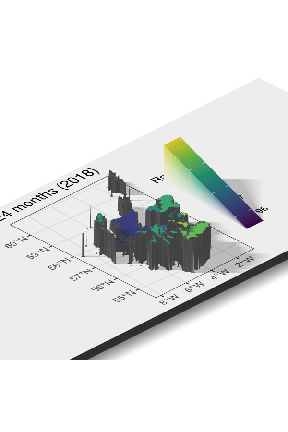
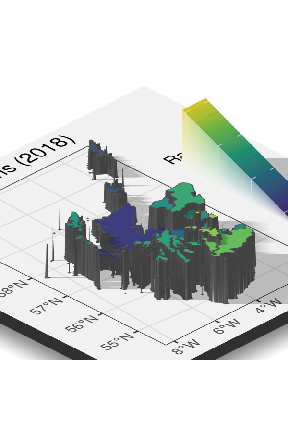
Built site for scotmaps: 0.0.0.1@6080cff

diff --git a/articles/scotmaps.html b/articles/scotmaps.html
@@ -102,7 +102,6 @@
 <p>Either use <code><a href="../reference/get_layer.html">get_layer("name of your layer")</a></code> or <code>name_of_layer()</code>. For example you can down the marine areas using either of these functions:</p>
 <div class="sourceCode" id="cb2"><pre class="downlit sourceCode r">
 <code class="sourceCode R"><span class="va">ma</span> <span class="op">&lt;-</span> <span class="fu"><a href="../reference/get_layer.html">get_layer</a></span><span class="op">(</span><span class="st">"marine_areas"</span><span class="op">)</span>
-<span class="co">#&gt; marine_areas was updated on 2020-11-28</span>
 <span class="co"># or...</span>
 <span class="va">ma</span> <span class="op">&lt;-</span> <span class="fu"><a href="../reference/marine_areas.html">marine_areas</a></span><span class="op">(</span><span class="op">)</span></code></pre></div>
 <p>The first time you run try to access a layer map files, you will be prompted for permission to download that layer to your hard drive.</p>
@@ -125,9 +124,7 @@
   <span class="fu"><a href="https://ggplot2.tidyverse.org/reference/theme.html">theme</a></span><span class="op">(</span>panel.grid.major <span class="op">=</span> <span class="fu"><a href="https://ggplot2.tidyverse.org/reference/element.html">element_line</a></span><span class="op">(</span>colour <span class="op">=</span> <span class="st">"grey60"</span>, size <span class="op">=</span> <span class="fl">0.1</span><span class="op">)</span><span class="op">)</span>
 
 <span class="va">p</span></code></pre></div>
-<div class="figure">
-<img src="figure/unnamed-chunk-3-1.png" alt=""><p class="caption">plot of chunk unnamed-chunk-3</p>
-</div>
+<p><img src="figure/unnamed-chunk-3-1.png"></p>
 <p>The <code>geom_st</code> recognises the simple feature or <code>sf</code> map downloaded layer and plots at a spatial object in the correct map projection.</p>
 </div>
 <div id="map-all-the-stats" class="section level3">
@@ -156,26 +153,19 @@
   <span class="fu"><a href="https://ggplot2.tidyverse.org/reference/ggsf.html">geom_sf</a></span><span class="op">(</span><span class="fu"><a href="https://ggplot2.tidyverse.org/reference/aes.html">aes</a></span><span class="op">(</span>fill <span class="op">=</span> <span class="va">value</span><span class="op">)</span><span class="op">)</span> <span class="op">+</span>
   <span class="fu"><a href="https://ggplot2.tidyverse.org/reference/scale_viridis.html">scale_fill_viridis_c</a></span><span class="op">(</span><span class="st">"Ratio"</span><span class="op">)</span> <span class="op">+</span>
   <span class="fu"><a href="https://ggplot2.tidyverse.org/reference/ggtheme.html">theme_bw</a></span><span class="op">(</span><span class="op">)</span> <span class="op">+</span>
-  <span class="fu"><a href="https://ggplot2.tidyverse.org/reference/labs.html">labs</a></span><span class="op">(</span>title<span class="op">=</span><span class="st">"6-in-1-immunisation by 24 months (2018)"</span><span class="op">)</span> <span class="op">+</span>
-  <span class="fu"><a href="https://ggplot2.tidyverse.org/reference/theme.html">theme</a></span><span class="op">(</span>plot.title <span class="op">=</span> <span class="fu"><a href="https://ggplot2.tidyverse.org/reference/element.html">element_text</a></span><span class="op">(</span>hjust <span class="op">=</span> <span class="fl">1</span><span class="op">)</span><span class="op">)</span>
+  <span class="fu"><a href="https://ggplot2.tidyverse.org/reference/labs.html">labs</a></span><span class="op">(</span>title<span class="op">=</span><span class="st">"6-in-1-immunisation by 24 months (2018)"</span><span class="op">)</span>
 
 <span class="va">p2</span></code></pre></div>
-<div class="figure">
-<img src="figure/unnamed-chunk-4-1.png" alt=""><p class="caption">plot of chunk unnamed-chunk-4</p>
-</div>
+<p><img src="figure/unnamed-chunk-4-1.png"></p>
 <p>Looks good but what about in 3D? Don’t worry, <code>rayshader</code> package has your back.</p>
 <div class="sourceCode" id="cb5"><pre class="downlit sourceCode r">
 <code class="sourceCode R"><span class="co"># devtools::install_github("tylermorganwall/rayshader")</span>
 <span class="kw"><a href="https://rdrr.io/r/base/library.html">library</a></span><span class="op">(</span><span class="va">rayshader</span><span class="op">)</span>
-
-<span class="fu">plot_gg</span><span class="op">(</span><span class="va">p2</span>, width <span class="op">=</span> <span class="fl">6</span>, height<span class="op">=</span><span class="fl">2.7</span><span class="op">)</span>
-                                                                                                     
+<span class="fu">plot_gg</span><span class="op">(</span><span class="va">p2</span>, multicore <span class="op">=</span> <span class="cn">TRUE</span><span class="op">)</span>
 <span class="fu">render_camera</span><span class="op">(</span>zoom <span class="op">=</span> <span class="fl">0.4</span>, theta <span class="op">=</span> <span class="op">-</span><span class="fl">45</span>, phi <span class="op">=</span> <span class="fl">30</span><span class="op">)</span>
 <span class="fu"><a href="https://rdrr.io/r/base/Sys.sleep.html">Sys.sleep</a></span><span class="op">(</span><span class="fl">0.2</span><span class="op">)</span>
 <span class="fu">render_snapshot</span><span class="op">(</span><span class="op">)</span></code></pre></div>
-<div class="figure">
-<img src="figure/unnamed-chunk-5-1.png" alt=""><p class="caption">plot of chunk unnamed-chunk-5</p>
-</div>
+<p><img src="figure/unnamed-chunk-5-1.png"></p>
 <div class="sourceCode" id="cb6"><pre class="downlit sourceCode r">
 <code class="sourceCode R"><span class="fu">rgl</span><span class="fu">::</span><span class="fu">rgl.close</span><span class="op">(</span><span class="op">)</span></code></pre></div>
 </div>
@@ -201,24 +191,20 @@
 <span class="co"># Convert to same crs as default scotmaps</span>
 <span class="va">points</span> <span class="op">&lt;-</span> <span class="fu"><a href="https://r-spatial.github.io/sf/reference/st_transform.html">st_transform</a></span><span class="op">(</span><span class="va">points</span>, crs <span class="op">=</span> <span class="fl">27700</span><span class="op">)</span>
 <span class="fu"><a href="https://r-spatial.github.io/sf/reference/plot.html">plot</a></span><span class="op">(</span><span class="fu"><a href="https://r-spatial.github.io/sf/reference/st_geometry.html">st_geometry</a></span><span class="op">(</span><span class="va">points</span><span class="op">)</span>, col <span class="op">=</span> <span class="va">points</span><span class="op">$</span><span class="va">capacity</span><span class="op">)</span></code></pre></div>
-<div class="figure">
-<img src="figure/unnamed-chunk-6-1.png" alt=""><p class="caption">plot of chunk unnamed-chunk-6</p>
-</div>
+<p><img src="figure/unnamed-chunk-6-1.png"></p>
 <p>Our OpenStreetMap query returned a wider area than Scotland, so let’s join points to associated Scottish local authority areas.</p>
 <div class="sourceCode" id="cb8"><pre class="downlit sourceCode r">
-<code class="sourceCode R"><span class="va">points</span> <span class="op">&lt;-</span> <span class="fu"><a href="https://r-spatial.github.io/sf/reference/st_join.html">st_join</a></span><span class="op">(</span><span class="va">point</span>, <span class="va">la</span>, join <span class="op">=</span> <span class="va">st_within</span><span class="op">)</span>
-<span class="co">#&gt; Error in st_join(point, la, join = st_within): object 'point' not found</span>
+<code class="sourceCode R"><span class="va">points</span> <span class="op">&lt;-</span> <span class="fu"><a href="https://r-spatial.github.io/sf/reference/st_join.html">st_join</a></span><span class="op">(</span><span class="va">points</span>, <span class="va">la</span>, join <span class="op">=</span> <span class="va">st_within</span><span class="op">)</span>
 <span class="co"># Cropped points with a local authority</span>
-<span class="fu"><a href="https://r-spatial.github.io/sf/reference/plot.html">plot</a></span><span class="op">(</span><span class="fu"><a href="https://r-spatial.github.io/sf/reference/st_geometry.html">st_geometry</a></span><span class="op">(</span><span class="va">points</span><span class="op">[</span><span class="op">!</span><span class="fu"><a href="https://rdrr.io/r/base/NA.html">is.na</a></span><span class="op">(</span><span class="va">points</span><span class="op">$</span><span class="va">local_authority</span><span class="op">)</span>, <span class="op">]</span><span class="op">)</span>, col <span class="op">=</span> <span class="va">points</span><span class="op">$</span><span class="va">capacity</span><span class="op">)</span>
-<span class="co">#&gt; Error in plot_sf(x, ...): NA value(s) in bounding box. Trying to plot empty geometries?</span></code></pre></div>
+<span class="fu"><a href="https://r-spatial.github.io/sf/reference/plot.html">plot</a></span><span class="op">(</span><span class="fu"><a href="https://r-spatial.github.io/sf/reference/st_geometry.html">st_geometry</a></span><span class="op">(</span><span class="va">points</span><span class="op">[</span><span class="op">!</span><span class="fu"><a href="https://rdrr.io/r/base/NA.html">is.na</a></span><span class="op">(</span><span class="va">points</span><span class="op">$</span><span class="va">local_authority</span><span class="op">)</span>, <span class="op">]</span><span class="op">)</span>, col <span class="op">=</span> <span class="va">points</span><span class="op">$</span><span class="va">capacity</span><span class="op">)</span></code></pre></div>
+<p><img src="figure/unnamed-chunk-7-1.png"></p>
 <p>Now we can sum capacity available in each authority.</p>
 <div class="sourceCode" id="cb9"><pre class="downlit sourceCode r">
 <code class="sourceCode R"><span class="va">capacity</span> <span class="op">&lt;-</span> <span class="va">points</span> <span class="op">%&gt;%</span>
   <span class="fu">group_by</span><span class="op">(</span><span class="va">code</span><span class="op">)</span> <span class="op">%&gt;%</span>
   <span class="fu"><a href="https://r-spatial.github.io/sf/reference/tidyverse.html">summarise</a></span><span class="op">(</span>total <span class="op">=</span> <span class="fu"><a href="https://rdrr.io/r/base/sum.html">sum</a></span><span class="op">(</span><span class="va">capacity</span><span class="op">)</span><span class="op">)</span> <span class="op">%&gt;%</span>
   <span class="fu"><a href="https://r-spatial.github.io/sf/reference/st_geometry.html">st_set_geometry</a></span><span class="op">(</span><span class="cn">NULL</span><span class="op">)</span> <span class="co"># remove the geometry column</span>
-<span class="co">#&gt; Error: Must group by variables found in `.data`.</span>
-<span class="co">#&gt; * Column `code` is not found.</span></code></pre></div>
+<span class="co">#&gt; `summarise()` ungrouping output (override with `.groups` argument)</span></code></pre></div>
 <p>Next, download census population data using <code>opendatascot</code> package and calculate bicycle parking capacity per person.</p>
 <div class="sourceCode" id="cb10"><pre class="downlit sourceCode r">
 <code class="sourceCode R"><span class="va">population</span> <span class="op">&lt;-</span> <span class="fu">ods_dataset</span><span class="op">(</span><span class="st">"census-population-2001"</span>, geography <span class="op">=</span> <span class="st">"la"</span><span class="op">)</span>
@@ -228,43 +214,34 @@
          <span class="va">gender</span> <span class="op">==</span> <span class="st">"all"</span><span class="op">)</span>
 
 <span class="va">total_points</span> <span class="op">&lt;-</span> <span class="fu">inner_join</span><span class="op">(</span><span class="va">capacity</span>, <span class="va">population</span>, by <span class="op">=</span> <span class="fu"><a href="https://rdrr.io/r/base/c.html">c</a></span><span class="op">(</span><span class="st">"code"</span> <span class="op">=</span> <span class="st">"refArea"</span><span class="op">)</span><span class="op">)</span>
-<span class="co">#&gt; Error in inner_join(capacity, population, by = c(code = "refArea")): object 'capacity' not found</span>
 
 <span class="co"># Calculate the pop / bicycle ratio</span>
 <span class="va">total_points</span><span class="op">$</span><span class="va">value</span> <span class="op">&lt;-</span> <span class="fu"><a href="https://rdrr.io/r/base/numeric.html">as.numeric</a></span><span class="op">(</span><span class="va">total_points</span><span class="op">$</span><span class="va">value</span><span class="op">)</span>
-<span class="co">#&gt; Error in eval(expr, envir, enclos): object 'total_points' not found</span>
 <span class="va">total_points</span> <span class="op">&lt;-</span> <span class="va">total_points</span> <span class="op">%&gt;%</span>  <span class="fu">mutate</span><span class="op">(</span>ratio <span class="op">=</span> <span class="va">total</span> <span class="op">/</span> <span class="va">value</span><span class="op">)</span>
-<span class="co">#&gt; Error in mutate(., ratio = total/value): object 'total_points' not found</span>
 
 <span class="co"># Join to authority areas</span>
-<span class="va">la_totals</span> <span class="op">&lt;-</span> <span class="fu">inner_join</span><span class="op">(</span><span class="va">la</span>, <span class="va">total_points</span>, by <span class="op">=</span> <span class="fu"><a href="https://rdrr.io/r/base/c.html">c</a></span><span class="op">(</span><span class="st">"code"</span> <span class="op">=</span> <span class="st">"code"</span><span class="op">)</span><span class="op">)</span>
-<span class="co">#&gt; Error in check_join(x, y): object 'total_points' not found</span></code></pre></div>
+<span class="va">la_totals</span> <span class="op">&lt;-</span> <span class="fu">inner_join</span><span class="op">(</span><span class="va">la</span>, <span class="va">total_points</span>, by <span class="op">=</span> <span class="fu"><a href="https://rdrr.io/r/base/c.html">c</a></span><span class="op">(</span><span class="st">"code"</span> <span class="op">=</span> <span class="st">"code"</span><span class="op">)</span><span class="op">)</span></code></pre></div>
 <p>Plot data on map:</p>
 <div class="sourceCode" id="cb11"><pre class="downlit sourceCode r">
 <code class="sourceCode R"><span class="va">p3</span> <span class="op">&lt;-</span> <span class="fu"><a href="https://ggplot2.tidyverse.org/reference/ggplot.html">ggplot</a></span><span class="op">(</span><span class="va">la_totals</span><span class="op">)</span> <span class="op">+</span>
   <span class="fu"><a href="https://ggplot2.tidyverse.org/reference/ggsf.html">geom_sf</a></span><span class="op">(</span><span class="fu"><a href="https://ggplot2.tidyverse.org/reference/aes.html">aes</a></span><span class="op">(</span>fill <span class="op">=</span> <span class="va">ratio</span><span class="op">)</span>, alpha <span class="op">=</span> <span class="fl">0.5</span><span class="op">)</span> <span class="op">+</span>
   <span class="fu"><a href="https://ggplot2.tidyverse.org/reference/scale_viridis.html">scale_colour_viridis_c</a></span><span class="op">(</span><span class="op">)</span>
-<span class="co">#&gt; Error in ggplot(la_totals): object 'la_totals' not found</span>
 
 <span class="fu">plot_gg</span><span class="op">(</span><span class="va">p3</span>, multicore <span class="op">=</span> <span class="cn">TRUE</span><span class="op">)</span>
-<span class="co">#&gt; Error in methods::is(ggobj, "list"): object 'p3' not found</span>
 <span class="fu">render_camera</span><span class="op">(</span>zoom <span class="op">=</span> <span class="fl">0.4</span>, theta <span class="op">=</span> <span class="op">-</span><span class="fl">45</span>, phi <span class="op">=</span> <span class="fl">30</span><span class="op">)</span>
-<span class="co">#&gt; Error in render_camera(zoom = 0.4, theta = -45, phi = 30): No rgl window currently open.</span>
 <span class="fu"><a href="https://rdrr.io/r/base/Sys.sleep.html">Sys.sleep</a></span><span class="op">(</span><span class="fl">0.2</span><span class="op">)</span>
-<span class="fu">render_snapshot</span><span class="op">(</span><span class="op">)</span>
-<span class="co">#&gt; Error in render_snapshot(): No rgl window currently open.</span>
-<span class="fu">rgl</span><span class="fu">::</span><span class="fu">rgl.close</span><span class="op">(</span><span class="op">)</span>
-<span class="co">#&gt; Error in rgl::rgl.close(): No device opened</span></code></pre></div>
+<span class="fu">render_snapshot</span><span class="op">(</span><span class="op">)</span></code></pre></div>
+<p><img src="figure/unnamed-chunk-10-1.png"></p>
+<div class="sourceCode" id="cb12"><pre class="downlit sourceCode r">
+<code class="sourceCode R"><span class="fu">rgl</span><span class="fu">::</span><span class="fu">rgl.close</span><span class="op">(</span><span class="op">)</span></code></pre></div>
 </div>
 <div id="availability-of-public-bicycle-parking-capacity" class="section level3">
 <h3 class="hasAnchor">
 <a href="#availability-of-public-bicycle-parking-capacity" class="anchor"></a>Availability of Public Bicycle Parking Capacity</h3>
 <p>Alternatively, we could present the data as a league table:</p>
-<div class="sourceCode" id="cb12"><pre class="downlit sourceCode r">
+<div class="sourceCode" id="cb13"><pre class="downlit sourceCode r">
 <code class="sourceCode R"><span class="va">total</span> <span class="op">&lt;-</span> <span class="fu"><a href="https://r-spatial.github.io/sf/reference/st_geometry.html">st_set_geometry</a></span><span class="op">(</span><span class="va">la_totals</span>, <span class="cn">NULL</span><span class="op">)</span>
-<span class="co">#&gt; Error in st_set_geometry(la_totals, NULL): object 'la_totals' not found</span>
 <span class="va">total</span> <span class="op">&lt;-</span> <span class="fu">mutate</span><span class="op">(</span><span class="va">total</span>,  <span class="st">"per_100"</span> <span class="op">=</span> <span class="va">ratio</span> <span class="op">*</span> <span class="fl">100</span><span class="op">)</span>
-<span class="co">#&gt; Error in mutate(total, per_100 = ratio * 100): object 'total' not found</span>
 
 <span class="co"># make table</span>
 <span class="fu">arrange</span><span class="op">(</span><span class="va">total</span>, <span class="fu">desc</span><span class="op">(</span><span class="va">per_100</span><span class="op">)</span><span class="op">)</span> <span class="op">%&gt;%</span>
@@ -272,8 +249,176 @@
   <span class="fu">select</span><span class="op">(</span><span class="va">No.</span>,
          <span class="st">"Local Authority"</span> <span class="op">=</span> <span class="va">local_authority</span>,
          <span class="st">"Capacity per 100 people"</span> <span class="op">=</span> <span class="va">per_100</span><span class="op">)</span> <span class="op">%&gt;%</span>
-  <span class="fu">knitr</span><span class="fu">::</span><span class="fu"><a href="https://rdrr.io/pkg/knitr/man/kable.html">kable</a></span><span class="op">(</span><span class="op">)</span>
-<span class="co">#&gt; Error in arrange(total, desc(per_100)): object 'total' not found</span></code></pre></div>
+  <span class="fu">knitr</span><span class="fu">::</span><span class="fu"><a href="https://rdrr.io/pkg/knitr/man/kable.html">kable</a></span><span class="op">(</span><span class="op">)</span></code></pre></div>
+<table class="table">
+<thead><tr class="header">
+<th align="right">No.</th>
+<th align="left">Local Authority</th>
+<th align="right">Capacity per 100 people</th>
+</tr></thead>
+<tbody>
+<tr class="odd">
+<td align="right">1</td>
+<td align="left">City of Edinburgh</td>
+<td align="right">3.2452566</td>
+</tr>
+<tr class="even">
+<td align="right">2</td>
+<td align="left">Dundee City</td>
+<td align="right">1.1251999</td>
+</tr>
+<tr class="odd">
+<td align="right">3</td>
+<td align="left">Fife</td>
+<td align="right">1.0079301</td>
+</tr>
+<tr class="even">
+<td align="right">4</td>
+<td align="left">Glasgow City</td>
+<td align="right">0.9571373</td>
+</tr>
+<tr class="odd">
+<td align="right">5</td>
+<td align="left">Midlothian</td>
+<td align="right">0.9241299</td>
+</tr>
+<tr class="even">
+<td align="right">6</td>
+<td align="left">East Lothian</td>
+<td align="right">0.8458396</td>
+</tr>
+<tr class="odd">
+<td align="right">7</td>
+<td align="left">Aberdeen City</td>
+<td align="right">0.7594579</td>
+</tr>
+<tr class="even">
+<td align="right">8</td>
+<td align="left">Stirling</td>
+<td align="right">0.7539554</td>
+</tr>
+<tr class="odd">
+<td align="right">9</td>
+<td align="left">Highland</td>
+<td align="right">0.7318801</td>
+</tr>
+<tr class="even">
+<td align="right">10</td>
+<td align="left">West Lothian</td>
+<td align="right">0.6659778</td>
+</tr>
+<tr class="odd">
+<td align="right">11</td>
+<td align="left">Orkney Islands</td>
+<td align="right">0.6443232</td>
+</tr>
+<tr class="even">
+<td align="right">12</td>
+<td align="left">Perth and Kinross</td>
+<td align="right">0.4616559</td>
+</tr>
+<tr class="odd">
+<td align="right">13</td>
+<td align="left">Eilean Siar</td>
+<td align="right">0.4075164</td>
+</tr>
+<tr class="even">
+<td align="right">14</td>
+<td align="left">North Lanarkshire</td>
+<td align="right">0.3821632</td>
+</tr>
+<tr class="odd">
+<td align="right">15</td>
+<td align="left">South Lanarkshire</td>
+<td align="right">0.3431321</td>
+</tr>
+<tr class="even">
+<td align="right">16</td>
+<td align="left">West Dunbartonshire</td>
+<td align="right">0.3127075</td>
+</tr>
+<tr class="odd">
+<td align="right">17</td>
+<td align="left">Argyll and Bute</td>
+<td align="right">0.2978994</td>
+</tr>
+<tr class="even">
+<td align="right">18</td>
+<td align="left">East Renfrewshire</td>
+<td align="right">0.2541680</td>
+</tr>
+<tr class="odd">
+<td align="right">19</td>
+<td align="left">East Dunbartonshire</td>
+<td align="right">0.2392764</td>
+</tr>
+<tr class="even">
+<td align="right">20</td>
+<td align="left">Falkirk</td>
+<td align="right">0.2383068</td>
+</tr>
+<tr class="odd">
+<td align="right">21</td>
+<td align="left">South Ayrshire</td>
+<td align="right">0.2212370</td>
+</tr>
+<tr class="even">
+<td align="right">22</td>
+<td align="left">Dumfries and Galloway</td>
+<td align="right">0.2206206</td>
+</tr>
+<tr class="odd">
+<td align="right">23</td>
+<td align="left">Scottish Borders</td>
+<td align="right">0.2098085</td>
+</tr>
+<tr class="even">
+<td align="right">24</td>
+<td align="left">Renfrewshire</td>
+<td align="right">0.2024678</td>
+</tr>
+<tr class="odd">
+<td align="right">25</td>
+<td align="left">Inverclyde</td>
+<td align="right">0.1686401</td>
+</tr>
+<tr class="even">
+<td align="right">26</td>
+<td align="left">Shetland Islands</td>
+<td align="right">0.1637257</td>
+</tr>
+<tr class="odd">
+<td align="right">27</td>
+<td align="left">Aberdeenshire</td>
+<td align="right">0.1617659</td>
+</tr>
+<tr class="even">
+<td align="right">28</td>
+<td align="left">Moray</td>
+<td align="right">0.1230734</td>
+</tr>
+<tr class="odd">
+<td align="right">29</td>
+<td align="left">Clackmannanshire</td>
+<td align="right">0.1206398</td>
+</tr>
+<tr class="even">
+<td align="right">30</td>
+<td align="left">North Ayrshire</td>
+<td align="right">0.0868816</td>
+</tr>
+<tr class="odd">
+<td align="right">31</td>
+<td align="left">Angus</td>
+<td align="right">0.0571956</td>
+</tr>
+<tr class="even">
+<td align="right">32</td>
+<td align="left">East Ayrshire</td>
+<td align="right">0.0382584</td>
+</tr>
+</tbody>
+</table>
 </div>
 </div>
   </div>
